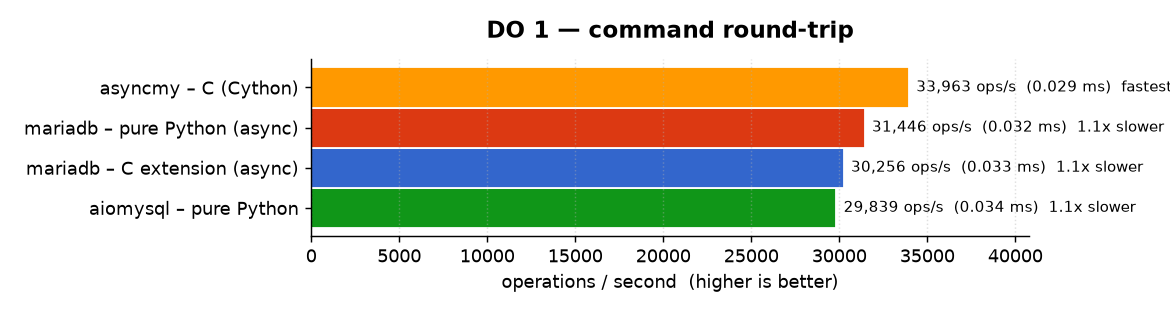
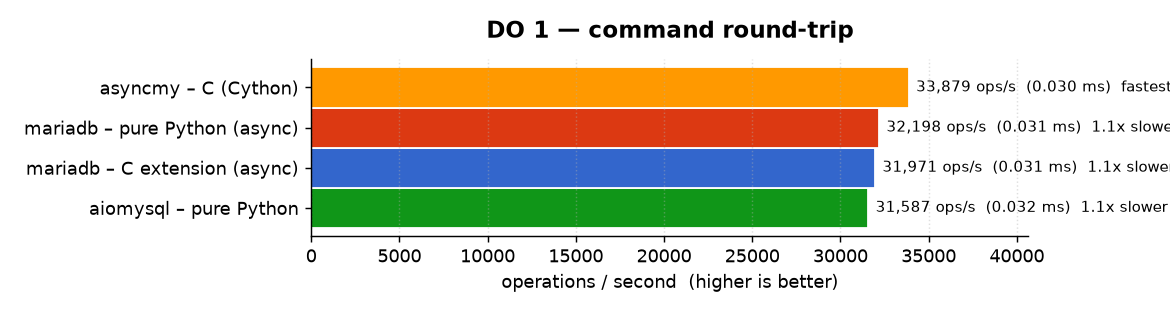
update benchmark result with latest changes

diff --git a/docs/benchmarks.md b/docs/benchmarks.md
@@ -23,24 +23,24 @@ The `mariadb` **C extension is the fastest driver in almost every benchmark**
 
 | Workload | mariadb (C) | vs pure-Python `mariadb` | vs MySQL Connector/C |
 |---|---|---|---|
-| `SELECT 1` (simple query) | **77,241 ops/s** | 1.7× faster | 2.4× faster |
-| `SELECT 1000 rows` (binary) | **5,216 ops/s** | 3.8× faster | 3.8× faster |
-| `SELECT 100 columns` (binary) | **11,287 ops/s** | 2.1× faster | 2.2× faster |
-| `DO 1000 params` (binary) | **2,292 ops/s** | 1.7× faster | 31× faster |
-| Batch `INSERT` (100 rows) | **7,511 ops/s** | 1.2× faster | 3.3× faster |
-| 500 pooled queries from 20 threads | **52 ops/s** | 2.0× faster | 2.6× faster |
+| `SELECT 1` (simple query) | **82,928 ops/s** | 1.7× faster | 2.4× faster |
+| `SELECT 1000 rows` (binary) | **5,629 ops/s** | 3.7× faster | 3.7× faster |
+| `SELECT 100 columns` (binary) | **13,406 ops/s** | 2.3× faster | 2.3× faster |
+| `DO 1000 params` (binary) | **3,398 ops/s** | 1.9× faster | 43× faster |
+| Batch `INSERT` (100 rows) | **8,092 ops/s** | 1.3× faster | 3.5× faster |
+| 500 pooled queries from 20 threads | **56 ops/s** | 1.9× faster | 2.6× faster |
 
 ### Asynchronous drivers
 
 
 | Workload | fastest | mariadb (C) | mariadb (pure Python) | asyncmy (C) |
 |---|---|---|---|---|
-| `SELECT 1` | mariadb (C) | **26,118 ops/s** | 1.3× slower | 1.1× slower |
-| `SELECT 100 columns` | mariadb (C) | **11,989 ops/s** | 2.1× slower | 2.7× slower |
-| Batch `INSERT` (10,000 rows) | mariadb (pure Python) | 1.2× slower | **52 ops/s** | 2.9× slower |
-| `SELECT 1000 rows` | asyncmy | 2.1× slower | 3.5× slower | **5,652 ops/s** |
-| 50 concurrent connect + query + close | mariadb (C) | **226 ops/s** | 1.8× slower | 1.5× slower |
-| 500 pooled queries, 5–20 pool | mariadb (C) | **36 ops/s** | 1.4× slower | 4.0× slower |
+| `SELECT 1` | mariadb (C) | **27,874 ops/s** | 1.2× slower | 1.2× slower |
+| `SELECT 100 columns` | mariadb (C) | **11,997 ops/s** | 2.0× slower | 2.3× slower |
+| Batch `INSERT` (10,000 rows) | mariadb (pure Python) | 1.1× slower | **53 ops/s** | 2.8× slower |
+| `SELECT 1000 rows` | asyncmy | 1.9× slower | 3.6× slower | **5,872 ops/s** |
+| 50 concurrent connect + query + close | mariadb (C) | **239 ops/s** | 1.8× slower | 1.5× slower |
+| 500 pooled queries, 5–20 pool | mariadb (C) | **36 ops/s** | 1.4× slower | 3.8× slower |
 
 ## Environment
 
@@ -52,7 +52,7 @@ The `mariadb` **C extension is the fastest driver in almost every benchmark**
 | Drivers | mariadb 2.0 (C extension and pure Python) · PyMySQL 1.2.0 · mysql-connector-python 9.7.0 · asyncmy 0.2.14 · aiomysql 0.3.2 |
 | Tooling | [pytest-benchmark](https://pypi.org/project/pytest-benchmark/) 5.2.3 · ≥ 1000 rounds per micro-benchmark, fewer for the heavy scenarios (10k-row batches, pools, connection storms) · GC disabled during timing |
 | Method | 1 warm-up pass (discarded) then 3 reported passes; the **median** per-call time across the 3 is reported (→ ops/s) |
-| Date | 2026-10-05 (sync and async) |
+| Date | 2026-10-23 (sync and async) |
 
 > ⚠ Sub-millisecond micro-benchmarks are sensitive to machine state (CPU
 > frequency scaling, background load, caches). These figures are meant for
@@ -69,19 +69,19 @@ driver behaves under the GIL as much as its wire efficiency).
 
 | Benchmark | mariadb – C extension | mariadb – pure Python | PyMySQL – pure Python | mysql-connector – C | mysql-connector – pure Python |
 |---|---|---|---|---|---|
-| DO 1 — command round-trip | 91,279 ops/s (1.1x) | 97,907 ops/s **(fastest)** | 84,372 ops/s (1.2x) | 49,408 ops/s (2.0x) | 26,432 ops/s (3.7x) |
-| SELECT 1 — simple query | 77,241 ops/s **(fastest)** | 44,895 ops/s (1.7x) | 39,677 ops/s (1.9x) | 32,288 ops/s (2.4x) | 17,368 ops/s (4.4x) |
-| INSERT — mixed types (single row) | 29,450 ops/s **(fastest)** | 28,185 ops/s (1.0x) | 26,078 ops/s (1.1x) | 27,133 ops/s (1.1x) | 17,003 ops/s (1.7x) |
-| Batch INSERT — 100 rows (executemany) | 7,511 ops/s **(fastest)** | 6,213 ops/s (1.2x) | 2,048 ops/s (3.7x) | 2,276 ops/s (3.3x) | 1,794 ops/s (4.2x) |
-| SELECT 1000 rows — binary protocol | 5,216 ops/s **(fastest)** | 1,390 ops/s (3.8x) | – | 1,362 ops/s (3.8x) | 279 ops/s (18.7x) |
-| SELECT 1000 rows — text protocol | 5,745 ops/s **(fastest)** | 1,674 ops/s (3.4x) | 511 ops/s (11.3x) | 1,515 ops/s (3.8x) | 340 ops/s (16.9x) |
-| SELECT 100 columns — binary protocol | 11,287 ops/s **(fastest)** | 5,357 ops/s (2.1x) | – | 5,107 ops/s (2.2x) | 1,177 ops/s (9.6x) |
-| SELECT 100 columns — text protocol | 14,771 ops/s **(fastest)** | 6,654 ops/s (2.2x) | 2,249 ops/s (6.6x) | 6,410 ops/s (2.3x) | 2,307 ops/s (6.4x) |
-| DO 1000 params — binary protocol | 2,292 ops/s **(fastest)** | 1,310 ops/s (1.7x) | – | 73 ops/s (31.6x) | 58 ops/s (39.5x) |
-| DO 1000 params — text protocol | 3,647 ops/s **(fastest)** | 3,561 ops/s (1.0x) | 2,063 ops/s (1.8x) | 2,431 ops/s (1.5x) | 1,034 ops/s (3.5x) |
-| Batch INSERT — 10,000 rows (executemany) | 43 ops/s (1.2x) | 50 ops/s **(fastest)** | 14 ops/s (3.7x) | 14 ops/s (3.5x) | 7 ops/s (7.2x) |
-| 50 threads: connect + query + close | 249 ops/s **(fastest)** | 149 ops/s (1.7x) | 124 ops/s (2.0x) | 146 ops/s (1.7x) | 65 ops/s (3.8x) |
-| 500 queries from 20 threads through a 5–20 pool | 52 ops/s **(fastest)** | 27 ops/s (2.0x) | – | 20 ops/s (2.6x) | 8 ops/s (6.3x) |
+| DO 1 — command round-trip | 98,124 ops/s (1.0x) | 100,670 ops/s **(fastest)** | 88,117 ops/s (1.1x) | 53,440 ops/s (1.9x) | 31,392 ops/s (3.2x) |
+| SELECT 1 — simple query | 82,928 ops/s **(fastest)** | 49,608 ops/s (1.7x) | 43,062 ops/s (1.9x) | 34,732 ops/s (2.4x) | 18,453 ops/s (4.5x) |
+| INSERT — mixed types (single row) | 32,349 ops/s **(fastest)** | 29,095 ops/s (1.1x) | 27,518 ops/s (1.2x) | 30,446 ops/s (1.1x) | 18,123 ops/s (1.8x) |
+| Batch INSERT — 100 rows (executemany) | 8,092 ops/s **(fastest)** | 6,192 ops/s (1.3x) | 2,147 ops/s (3.8x) | 2,337 ops/s (3.5x) | 1,834 ops/s (4.4x) |
+| SELECT 1000 rows — binary protocol | 5,629 ops/s **(fastest)** | 1,509 ops/s (3.7x) | – | 1,516 ops/s (3.7x) | 294 ops/s (19.1x) |
+| SELECT 1000 rows — text protocol | 6,580 ops/s **(fastest)** | 1,802 ops/s (3.7x) | 538 ops/s (12.2x) | 1,769 ops/s (3.7x) | 358 ops/s (18.4x) |
+| SELECT 100 columns — binary protocol | 13,406 ops/s **(fastest)** | 5,842 ops/s (2.3x) | – | 5,750 ops/s (2.3x) | 1,221 ops/s (11.0x) |
+| SELECT 100 columns — text protocol | 17,655 ops/s **(fastest)** | 6,859 ops/s (2.6x) | 2,560 ops/s (6.9x) | 7,267 ops/s (2.4x) | 2,413 ops/s (7.3x) |
+| DO 1000 params — binary protocol | 3,398 ops/s **(fastest)** | 1,762 ops/s (1.9x) | – | 79 ops/s (43.2x) | 63 ops/s (54.3x) |
+| DO 1000 params — text protocol | 4,008 ops/s **(fastest)** | 3,929 ops/s (1.0x) | 2,219 ops/s (1.8x) | 2,858 ops/s (1.4x) | 1,072 ops/s (3.7x) |
+| Batch INSERT — 10,000 rows (executemany) | 49 ops/s (1.1x) | 54 ops/s **(fastest)** | 15 ops/s (3.6x) | 15 ops/s (3.6x) | 8 ops/s (7.1x) |
+| 50 threads: connect + query + close | 280 ops/s **(fastest)** | 156 ops/s (1.8x) | 146 ops/s (1.9x) | 166 ops/s (1.7x) | 74 ops/s (3.8x) |
+| 500 queries from 20 threads through a 5–20 pool | 56 ops/s **(fastest)** | 29 ops/s (1.9x) | – | 21 ops/s (2.6x) | 9 ops/s (6.4x) |
 
 *(Multiplier in parentheses is how much slower than the fastest driver for that row.)*
 
@@ -156,15 +156,15 @@ implementation rather than from that layout.
 
 | Benchmark | mariadb – C extension (async) | mariadb – pure Python (async) | asyncmy – C (Cython) | aiomysql – pure Python |
 |---|---|---|---|---|
-| DO 1 — command round-trip | 30,256 ops/s (1.1x) | 31,446 ops/s (1.1x) | 33,963 ops/s **(fastest)** | 29,839 ops/s (1.1x) |
-| SELECT 1 — simple query | 26,118 ops/s **(fastest)** | 20,667 ops/s (1.3x) | 22,727 ops/s (1.1x) | 19,509 ops/s (1.3x) |
-| Batch INSERT — 100 rows (executemany) | 5,027 ops/s (1.0x) | 5,142 ops/s **(fastest)** | 2,209 ops/s (2.3x) | 1,964 ops/s (2.6x) |
-| Batch INSERT — 10,000 rows (executemany) | 44 ops/s (1.2x) | 52 ops/s **(fastest)** | 18 ops/s (2.9x) | 15 ops/s (3.4x) |
-| SELECT 1000 rows | 2,678 ops/s (2.1x) | 1,624 ops/s (3.5x) | 5,652 ops/s **(fastest)** | 430 ops/s (13.1x) |
-| SELECT 100 columns | 11,989 ops/s **(fastest)** | 5,783 ops/s (2.1x) | 4,497 ops/s (2.7x) | 2,118 ops/s (5.7x) |
-| DO 1000 params | 3,504 ops/s (1.0x) | 3,642 ops/s **(fastest)** | 2,818 ops/s (1.3x) | 2,404 ops/s (1.5x) |
-| 50 concurrent connect + query + close | 226 ops/s **(fastest)** | 125 ops/s (1.8x) | 154 ops/s (1.5x) | 130 ops/s (1.7x) |
-| 500 concurrent queries through a 5–20 pool | 36 ops/s **(fastest)** | 25 ops/s (1.4x) | 9 ops/s (4.0x) | 16 ops/s (2.2x) |
+| DO 1 — command round-trip | 31,971 ops/s (1.1x) | 32,198 ops/s (1.1x) | 33,879 ops/s **(fastest)** | 31,587 ops/s (1.1x) |
+| SELECT 1 — simple query | 27,874 ops/s **(fastest)** | 22,920 ops/s (1.2x) | 23,539 ops/s (1.2x) | 19,941 ops/s (1.4x) |
+| Batch INSERT — 100 rows (executemany) | 5,822 ops/s **(fastest)** | 5,146 ops/s (1.1x) | 2,261 ops/s (2.6x) | 2,024 ops/s (2.9x) |
+| Batch INSERT — 10,000 rows (executemany) | 48 ops/s (1.1x) | 53 ops/s **(fastest)** | 19 ops/s (2.8x) | 16 ops/s (3.4x) |
+| SELECT 1000 rows | 3,078 ops/s (1.9x) | 1,636 ops/s (3.6x) | 5,872 ops/s **(fastest)** | 457 ops/s (12.9x) |
+| SELECT 100 columns | 11,997 ops/s **(fastest)** | 5,943 ops/s (2.0x) | 5,244 ops/s (2.3x) | 2,184 ops/s (5.5x) |
+| DO 1000 params | 3,624 ops/s (1.0x) | 3,643 ops/s **(fastest)** | 3,020 ops/s (1.2x) | 2,393 ops/s (1.5x) |
+| 50 concurrent connect + query + close | 239 ops/s **(fastest)** | 130 ops/s (1.8x) | 162 ops/s (1.5x) | 138 ops/s (1.7x) |
+| 500 concurrent queries through a 5–20 pool | 36 ops/s **(fastest)** | 25 ops/s (1.4x) | 9 ops/s (3.8x) | 17 ops/s (2.1x) |
 
 *(Multiplier in parentheses is how much slower than the fastest driver for that row.)*
 

diff --git a/docs/benchmarks/comparison_table.md b/docs/benchmarks/comparison_table.md
@@ -1,15 +1,15 @@
 | Benchmark | mariadb – C extension | mariadb – pure Python | PyMySQL – pure Python | mysql-connector – C | mysql-connector – pure Python |
 |---|---|---|---|---|---|
-| DO 1 — command round-trip | 91,279 ops/s (1.1x) | 97,907 ops/s **(fastest)** | 84,372 ops/s (1.2x) | 49,408 ops/s (2.0x) | 26,432 ops/s (3.7x) |
-| SELECT 1 — simple query | 77,241 ops/s **(fastest)** | 44,895 ops/s (1.7x) | 39,677 ops/s (1.9x) | 32,288 ops/s (2.4x) | 17,368 ops/s (4.4x) |
-| INSERT — mixed types (single row) | 29,450 ops/s **(fastest)** | 28,185 ops/s (1.0x) | 26,078 ops/s (1.1x) | 27,133 ops/s (1.1x) | 17,003 ops/s (1.7x) |
-| Batch INSERT — 100 rows (executemany) | 7,511 ops/s **(fastest)** | 6,213 ops/s (1.2x) | 2,048 ops/s (3.7x) | 2,276 ops/s (3.3x) | 1,794 ops/s (4.2x) |
-| SELECT 1000 rows — binary protocol | 5,216 ops/s **(fastest)** | 1,390 ops/s (3.8x) | – | 1,362 ops/s (3.8x) | 279 ops/s (18.7x) |
-| SELECT 1000 rows — text protocol | 5,745 ops/s **(fastest)** | 1,674 ops/s (3.4x) | 511 ops/s (11.3x) | 1,515 ops/s (3.8x) | 340 ops/s (16.9x) |
-| SELECT 100 columns — binary protocol | 11,287 ops/s **(fastest)** | 5,357 ops/s (2.1x) | – | 5,107 ops/s (2.2x) | 1,177 ops/s (9.6x) |
-| SELECT 100 columns — text protocol | 14,771 ops/s **(fastest)** | 6,654 ops/s (2.2x) | 2,249 ops/s (6.6x) | 6,410 ops/s (2.3x) | 2,307 ops/s (6.4x) |
-| DO 1000 params — binary protocol | 2,292 ops/s **(fastest)** | 1,310 ops/s (1.7x) | – | 73 ops/s (31.6x) | 58 ops/s (39.5x) |
-| DO 1000 params — text protocol | 3,647 ops/s **(fastest)** | 3,561 ops/s (1.0x) | 2,063 ops/s (1.8x) | 2,431 ops/s (1.5x) | 1,034 ops/s (3.5x) |
-| Batch INSERT — 10,000 rows (executemany) | 43 ops/s (1.2x) | 50 ops/s **(fastest)** | 14 ops/s (3.7x) | 14 ops/s (3.5x) | 7 ops/s (7.2x) |
-| 50 threads: connect + query + close | 249 ops/s **(fastest)** | 149 ops/s (1.7x) | 124 ops/s (2.0x) | 146 ops/s (1.7x) | 65 ops/s (3.8x) |
-| 500 queries from 20 threads through a 5–20 pool | 52 ops/s **(fastest)** | 27 ops/s (2.0x) | – | 20 ops/s (2.6x) | 8 ops/s (6.3x) |
+| DO 1 — command round-trip | 98,124 ops/s (1.0x) | 100,670 ops/s **(fastest)** | 88,117 ops/s (1.1x) | 53,440 ops/s (1.9x) | 31,392 ops/s (3.2x) |
+| SELECT 1 — simple query | 82,928 ops/s **(fastest)** | 49,608 ops/s (1.7x) | 43,062 ops/s (1.9x) | 34,732 ops/s (2.4x) | 18,453 ops/s (4.5x) |
+| INSERT — mixed types (single row) | 32,349 ops/s **(fastest)** | 29,095 ops/s (1.1x) | 27,518 ops/s (1.2x) | 30,446 ops/s (1.1x) | 18,123 ops/s (1.8x) |
+| Batch INSERT — 100 rows (executemany) | 8,092 ops/s **(fastest)** | 6,192 ops/s (1.3x) | 2,147 ops/s (3.8x) | 2,337 ops/s (3.5x) | 1,834 ops/s (4.4x) |
+| SELECT 1000 rows — binary protocol | 5,629 ops/s **(fastest)** | 1,509 ops/s (3.7x) | – | 1,516 ops/s (3.7x) | 294 ops/s (19.1x) |
+| SELECT 1000 rows — text protocol | 6,580 ops/s **(fastest)** | 1,802 ops/s (3.7x) | 538 ops/s (12.2x) | 1,769 ops/s (3.7x) | 358 ops/s (18.4x) |
+| SELECT 100 columns — binary protocol | 13,406 ops/s **(fastest)** | 5,842 ops/s (2.3x) | – | 5,750 ops/s (2.3x) | 1,221 ops/s (11.0x) |
+| SELECT 100 columns — text protocol | 17,655 ops/s **(fastest)** | 6,859 ops/s (2.6x) | 2,560 ops/s (6.9x) | 7,267 ops/s (2.4x) | 2,413 ops/s (7.3x) |
+| DO 1000 params — binary protocol | 3,398 ops/s **(fastest)** | 1,762 ops/s (1.9x) | – | 79 ops/s (43.2x) | 63 ops/s (54.3x) |
+| DO 1000 params — text protocol | 4,008 ops/s **(fastest)** | 3,929 ops/s (1.0x) | 2,219 ops/s (1.8x) | 2,858 ops/s (1.4x) | 1,072 ops/s (3.7x) |
+| Batch INSERT — 10,000 rows (executemany) | 49 ops/s (1.1x) | 54 ops/s **(fastest)** | 15 ops/s (3.6x) | 15 ops/s (3.6x) | 8 ops/s (7.1x) |
+| 50 threads: connect + query + close | 280 ops/s **(fastest)** | 156 ops/s (1.8x) | 146 ops/s (1.9x) | 166 ops/s (1.7x) | 74 ops/s (3.8x) |
+| 500 queries from 20 threads through a 5–20 pool | 56 ops/s **(fastest)** | 29 ops/s (1.9x) | – | 21 ops/s (2.6x) | 9 ops/s (6.4x) |

diff --git a/docs/benchmarks/comparison_table_async.md b/docs/benchmarks/comparison_table_async.md
@@ -1,11 +1,11 @@
 | Benchmark | mariadb – C extension (async) | mariadb – pure Python (async) | asyncmy – C (Cython) | aiomysql – pure Python |
 |---|---|---|---|---|
-| DO 1 — command round-trip | 30,256 ops/s (1.1x) | 31,446 ops/s (1.1x) | 33,963 ops/s **(fastest)** | 29,839 ops/s (1.1x) |
-| SELECT 1 — simple query | 26,118 ops/s **(fastest)** | 20,667 ops/s (1.3x) | 22,727 ops/s (1.1x) | 19,509 ops/s (1.3x) |
-| Batch INSERT — 100 rows (executemany) | 5,027 ops/s (1.0x) | 5,142 ops/s **(fastest)** | 2,209 ops/s (2.3x) | 1,964 ops/s (2.6x) |
-| Batch INSERT — 10,000 rows (executemany) | 44 ops/s (1.2x) | 52 ops/s **(fastest)** | 18 ops/s (2.9x) | 15 ops/s (3.4x) |
-| SELECT 1000 rows | 2,678 ops/s (2.1x) | 1,624 ops/s (3.5x) | 5,652 ops/s **(fastest)** | 430 ops/s (13.1x) |
-| SELECT 100 columns | 11,989 ops/s **(fastest)** | 5,783 ops/s (2.1x) | 4,497 ops/s (2.7x) | 2,118 ops/s (5.7x) |
-| DO 1000 params | 3,504 ops/s (1.0x) | 3,642 ops/s **(fastest)** | 2,818 ops/s (1.3x) | 2,404 ops/s (1.5x) |
-| 50 concurrent connect + query + close | 226 ops/s **(fastest)** | 125 ops/s (1.8x) | 154 ops/s (1.5x) | 130 ops/s (1.7x) |
-| 500 concurrent queries through a 5–20 pool | 36 ops/s **(fastest)** | 25 ops/s (1.4x) | 9 ops/s (4.0x) | 16 ops/s (2.2x) |
+| DO 1 — command round-trip | 31,971 ops/s (1.1x) | 32,198 ops/s (1.1x) | 33,879 ops/s **(fastest)** | 31,587 ops/s (1.1x) |
+| SELECT 1 — simple query | 27,874 ops/s **(fastest)** | 22,920 ops/s (1.2x) | 23,539 ops/s (1.2x) | 19,941 ops/s (1.4x) |
+| Batch INSERT — 100 rows (executemany) | 5,822 ops/s **(fastest)** | 5,146 ops/s (1.1x) | 2,261 ops/s (2.6x) | 2,024 ops/s (2.9x) |
+| Batch INSERT — 10,000 rows (executemany) | 48 ops/s (1.1x) | 53 ops/s **(fastest)** | 19 ops/s (2.8x) | 16 ops/s (3.4x) |
+| SELECT 1000 rows | 3,078 ops/s (1.9x) | 1,636 ops/s (3.6x) | 5,872 ops/s **(fastest)** | 457 ops/s (12.9x) |
+| SELECT 100 columns | 11,997 ops/s **(fastest)** | 5,943 ops/s (2.0x) | 5,244 ops/s (2.3x) | 2,184 ops/s (5.5x) |
+| DO 1000 params | 3,624 ops/s (1.0x) | 3,643 ops/s **(fastest)** | 3,020 ops/s (1.2x) | 2,393 ops/s (1.5x) |
+| 50 concurrent connect + query + close | 239 ops/s **(fastest)** | 130 ops/s (1.8x) | 162 ops/s (1.5x) | 138 ops/s (1.7x) |
+| 500 concurrent queries through a 5–20 pool | 36 ops/s **(fastest)** | 25 ops/s (1.4x) | 9 ops/s (3.8x) | 17 ops/s (2.1x) |
